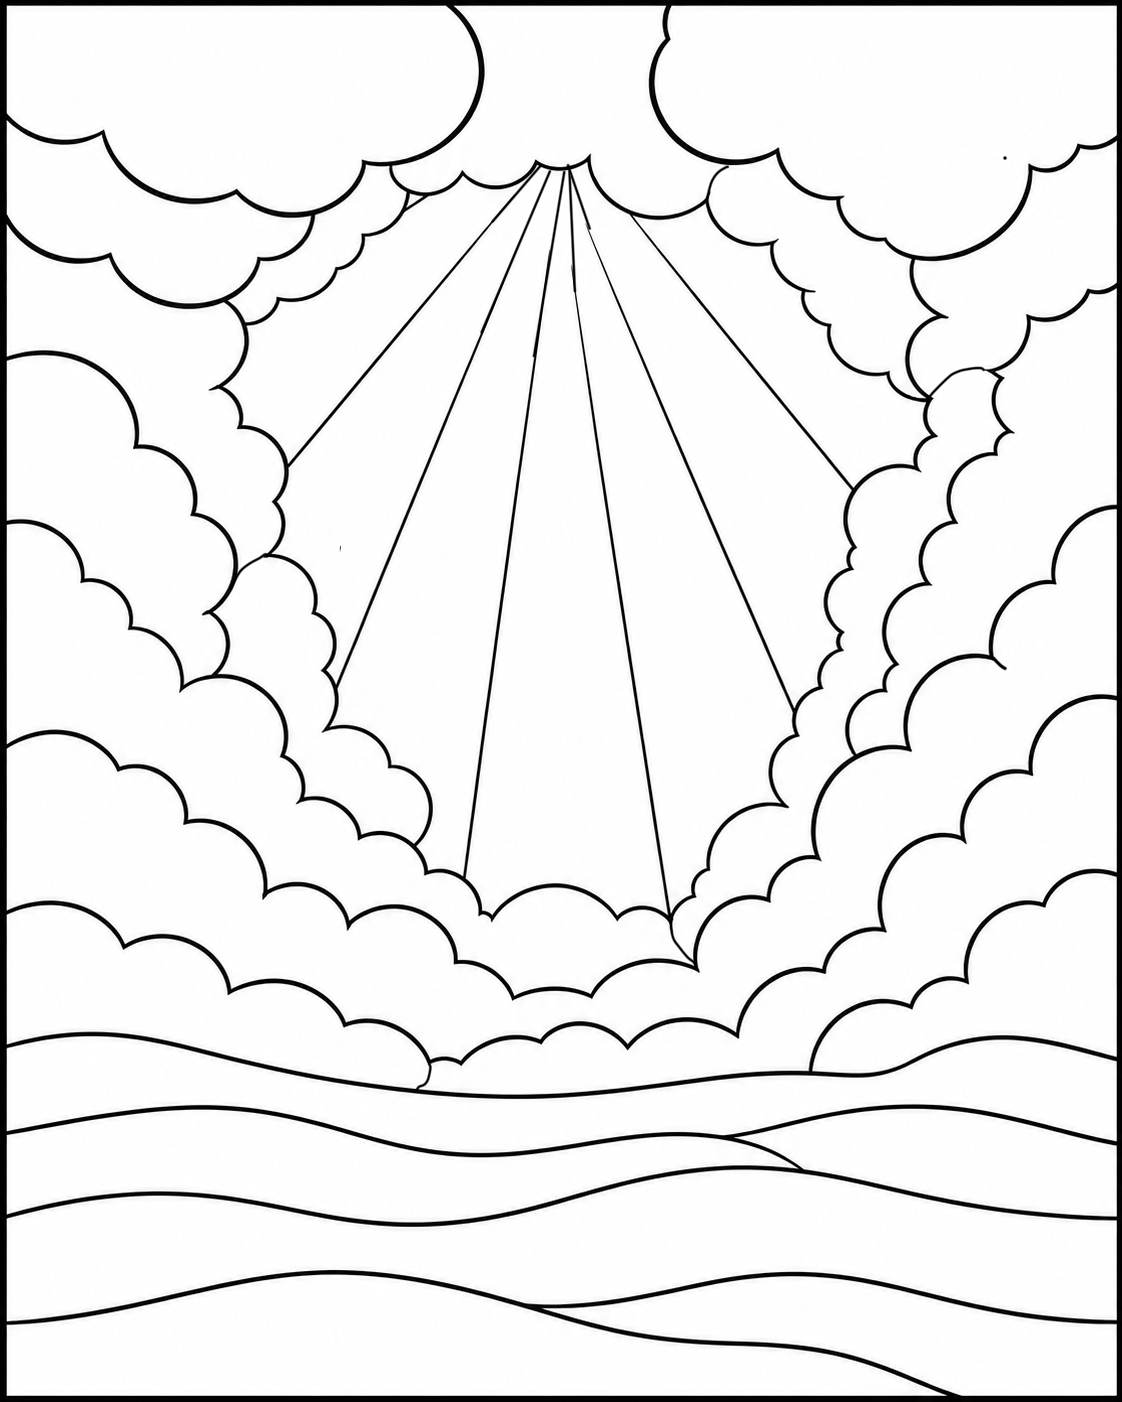
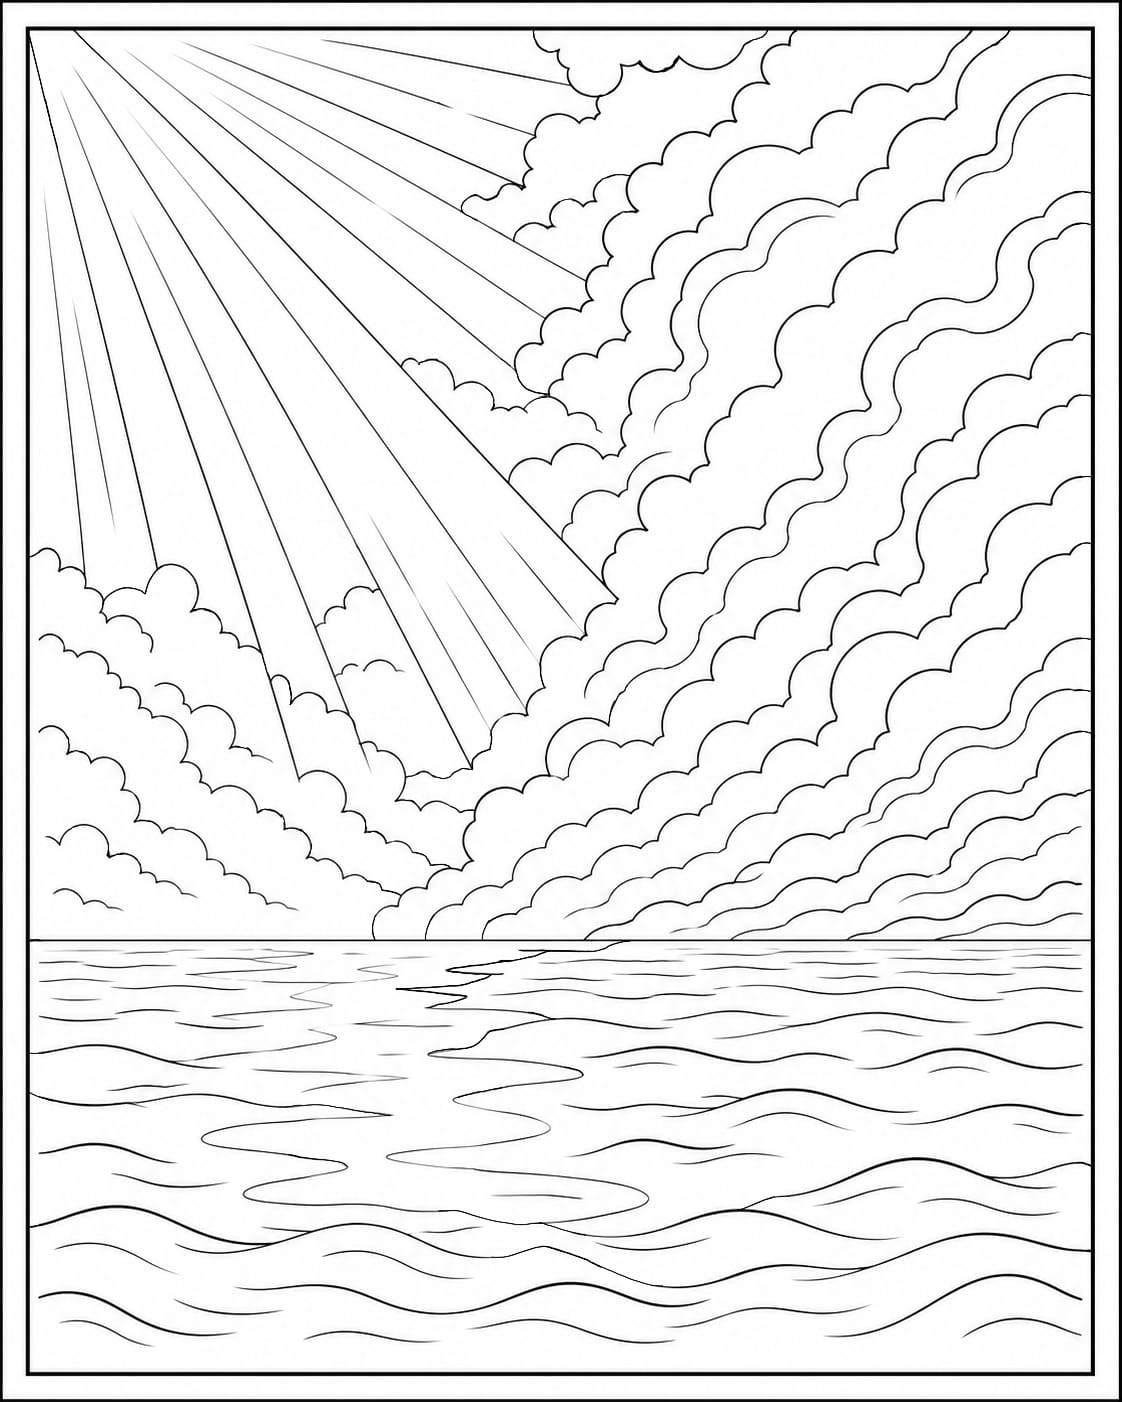
fix: replace creation scene 02 and reanchor light
Substitui assets/stories/creation/coloring/scene_02.png pela versão
final aprovada visual/teologicamente pelo fundador (PNG verdadeiro,
1122x1402, bit depth 8, color type 2/RGB, sem transparência, 861767
bytes, SHA c960f1bb...83c1) e reancora o contrato de integridade de
`light` nos artefatos rastreáveis. O arquivo antigo (35d6f50c...faddb,
RGBA/3201048 bytes) possuía erros.

Atomicidade: o PNG e os contratos precisam viajar juntos. PNG sozinho
deixaria pre/smoke vermelhos (disco != contrato); contratos sozinhos
apontariam para bytes inexistentes. Um bloco lógico = um commit.

Escopo (7 arquivos autorizados): scene_02.png + coloring60Catalog.js +
verify-coloring60-assets.js + smoke.js + plan.md + tasks.md + spec 017.
living_world/people_and_care intactos; require de light intacto;
activities/light.png segue proibido; flag COLORIR_60_CREATION_PILOT_ENABLED
permanece false.

diff --git a/scripts/smoke.js b/scripts/smoke.js
@@ -29730,7 +29730,7 @@ check(
 
     const byId = Object.fromEntries(acts.map((a) => [a.activityId, a]));
     check('C60-P1.T5: expectedSha256 ratificado de light',
[2 lines of base64/hex data omitted]
       'hash ratificado de light divergente');
     check('C60-P1.T5: expectedSha256 ratificado de living_world',
[1 lines of base64/hex data omitted]
@@ -29785,7 +29785,7 @@ check(
       .update(fs.readFileSync(path.join(root, 'assets/stories/creation/coloring/scene_02.png')))
       .digest('hex');
     check('C60-P1.T5: SHA-256 real de scene_02.png == expectedSha256 de light',
[2 lines of base64/hex data omitted]
       `scene_02.png deve casar o hash ratificado de light (recebido: ${scene02Sha})`);
 
     // P1 é aditivo e inerte: nada liga o piloto.
@@ -31436,7 +31436,7 @@ check(
       'matriz não é fechada de 3');
 
     check('C60-P5-GATE1 [06] hash light correto (contrato)',
[2 lines of base64/hex data omitted]
     check('C60-P5-GATE1 [07] hash living_world correto (contrato)',
[1 lines of base64/hex data omitted]
     check('C60-P5-GATE1 [08] hash people_and_care correto (contrato)',
@@ -31444,9 +31444,9 @@ check(
 
     check('C60-P5-GATE1 [09] dims 1122x1402', /width:\s*1122/.test(vSrc) && /height:\s*1402/.test(vSrc), 'dims divergentes');
     check('C60-P5-GATE1 [10] people_and_care tamanho 1195149 bytes', vSrc.includes('1195149'), 'tamanho pc ausente');
-    check('C60-P5-GATE1 [11] modos de cor: light RGBA(6), lw RGB(2), pc RGB(2)',
-      /expectedColorType:\s*6/.test(vSrc) && (vSrc.match(/expectedColorType:\s*2/g) || []).length === 2 &&
-      vSrc.includes("expectedColorMode: 'RGBA'") && (vSrc.match(/expectedColorMode:\s*'RGB'/g) || []).length === 2,
+    check('C60-P5-GATE1 [11] modos de cor: light RGB(2), lw RGB(2), pc RGB(2)',
+      !/expectedColorType:\s*6/.test(vSrc) && (vSrc.match(/expectedColorType:\s*2/g) || []).length === 3 &&
+      !vSrc.includes("expectedColorMode: 'RGBA'") && (vSrc.match(/expectedColorMode:\s*'RGB'/g) || []).length === 3,
       'modos de cor divergentes');
 
     check('C60-P5-GATE1 [12] light = reuso de scene_02.png (role reuse, sem cópia)',

diff --git a/scripts/verify-coloring60-assets.js b/scripts/verify-coloring60-assets.js
@@ -63,12 +63,12 @@ const ASSETS = Object.freeze([
     role: 'reuse', // reuso direto de scene_02.png — SEM destino em activities/
     reusePath: path.join(REPO_ROOT, 'assets', 'stories', 'creation', 'coloring', 'scene_02.png'),
     forbiddenPath: path.join(REPO_ROOT, 'assets', 'stories', 'creation', 'coloring', 'activities', 'light.png'),
[2 lines of base64/hex data omitted]
     expectedDims: EXPECTED_DIMS,
     expectedBitDepth: 8, // 8 bits por canal (contrato)
-    expectedColorType: 6, // RGBA
-    expectedColorMode: 'RGBA',
-    expectedBytes: 3201048,
+    expectedColorType: 2, // RGB
+    expectedColorMode: 'RGB',
+    expectedBytes: 861767,
   }),
   Object.freeze({
     assetId: 'living_world',

diff --git a/src/data/coloring60Catalog.js b/src/data/coloring60Catalog.js
@@ -31,7 +31,7 @@ const CREATION_ACTIVITIES = Object.freeze([
     activityId: 'light',
     order: 1,
     title: 'Haja luz',
[2 lines of base64/hex data omitted]
     expectedDims: Object.freeze({ width: 1122, height: 1402 }),
     localSourceKey: 'creation:light',
   }),

diff --git a/specs/016-colorir-60-pilot-creation/tasks.md b/specs/016-colorir-60-pilot-creation/tasks.md
@@ -95,7 +95,7 @@ Esclarecimento de rastreabilidade, **não** uma nova decisão de produto:
 - **Dep:** P0.T1 · **Commit:** não · **Push/merge:** proibido.
 - **Arq✔:** relatório · **Arq✗:** qualquer PNG.
 - **Entradas:** spec 017 §15.
[2 lines of base64/hex data omitted]
 - **Gates:** três hashes completos, sem reticências.
 - **Evidências:** tabela de integridade.
 - **Parada:** hash divergente da spec → PARAR.
@@ -356,7 +356,7 @@ Esclarecimento de rastreabilidade, **não** uma nova decisão de produto:
 - **Objetivo:** confirmar `light` por referência a `scene_02.png`, sem cópia/conversão.
 - **Dep:** P1.T3 · **Commit:** não (verificação) · **Push/merge:** proibido.
 - **Arq✔:** relatório · **Arq✗:** criar `activities/light.png`, converter/copiar.
[2 lines of base64/hex data omitted]
 - **Passos:** 1) verificar hash do original `scene_02.png`; 2) confirmar `require()` direto; 3) provar ausência de `activities/light.png`.
 - **Gates:** `light` idêntico ao contrato; sem novo arquivo.
 - **Evidências:** hash + listagem.

diff --git a/specs/016-colorir-60-pilot-creation/plan.md b/specs/016-colorir-60-pilot-creation/plan.md
@@ -71,7 +71,7 @@ Usados **integralmente** em catálogo, testes, hash gate e aceite:
 
 | activityId | fonte runtime | SHA-256 esperado (completo) | dims | razão |
 |---|---|---|---|---|
[4 lines of base64/hex data omitted]
 
